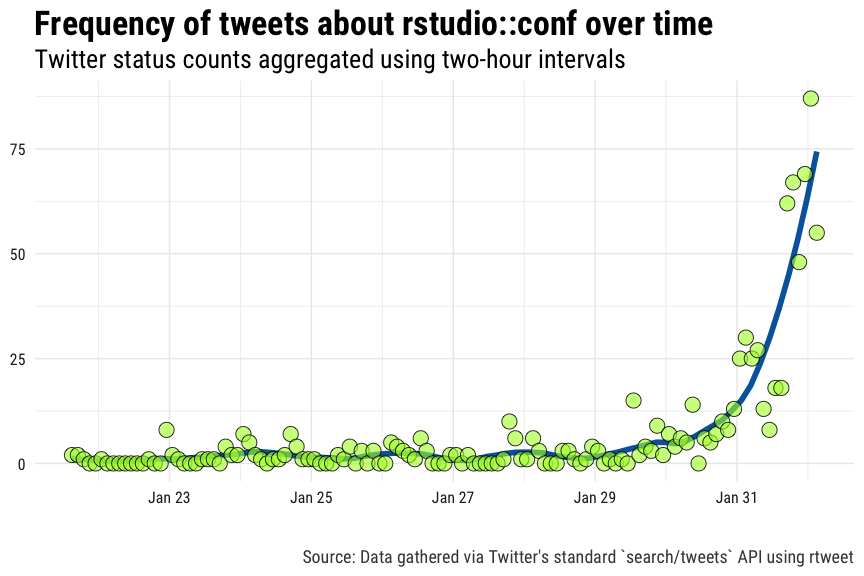
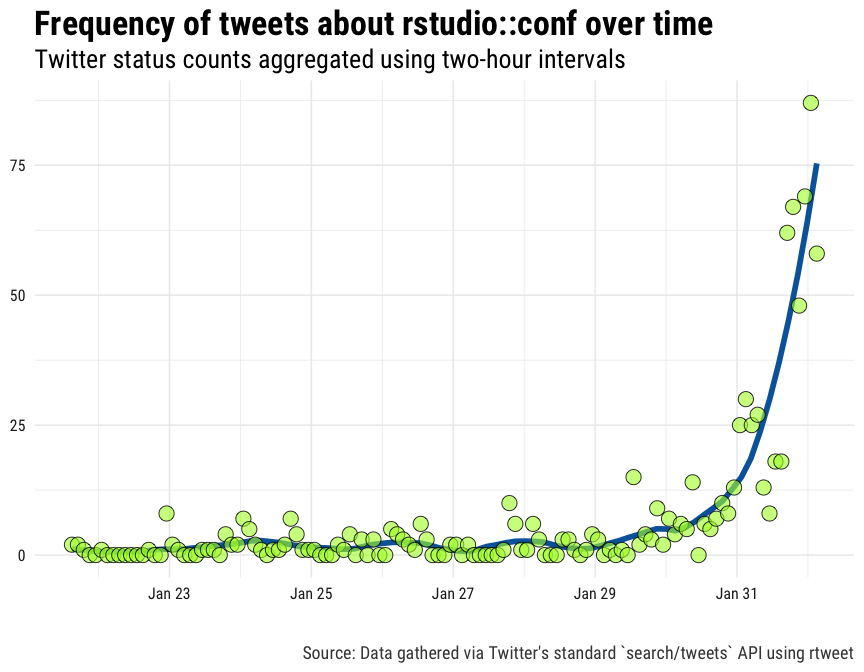
update + changed dim on plots

diff --git a/README.md b/README.md
@@ -154,7 +154,7 @@ rt %>%
 ```
 
 <p align="center">
-<img width="100%" src="README_files/figure-markdown_github/unnamed-chunk-6-1.png" />
+<img width="100%" height="auto" src="README_files/figure-markdown_github/unnamed-chunk-6-1.png" />
 </p>
 ### Positive/negative sentiment
 
@@ -205,7 +205,7 @@ rt %>%
 ```
 
 <p align="center">
-<img width="100%" src="README_files/figure-markdown_github/unnamed-chunk-7-1.png" />
+<img width="100%" height="auto" src="README_files/figure-markdown_github/unnamed-chunk-7-1.png" />
 </p>
 ### Semantic networks
 
@@ -282,5 +282,5 @@ mtext("User connections by mentions, replies, retweets, and quotes",
 ```
 
 <p align="center">
-<img width="100%" src="README_files/figure-markdown_github/unnamed-chunk-8-1.png" />
+<img width="100%" height="auto" src="README_files/figure-markdown_github/unnamed-chunk-8-1.png" />
 </p>
